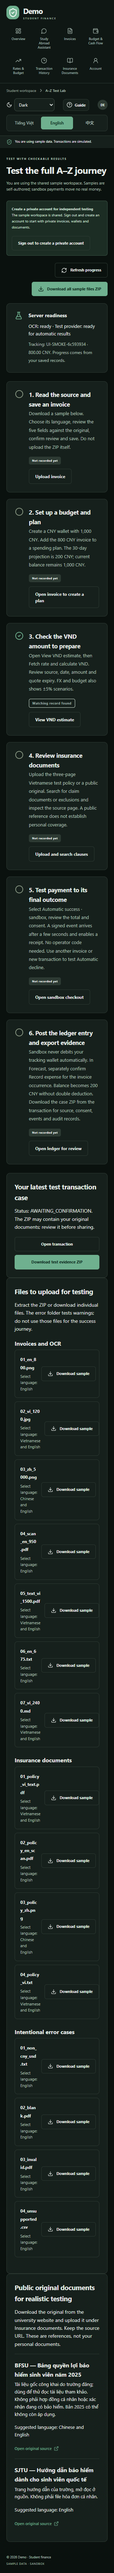
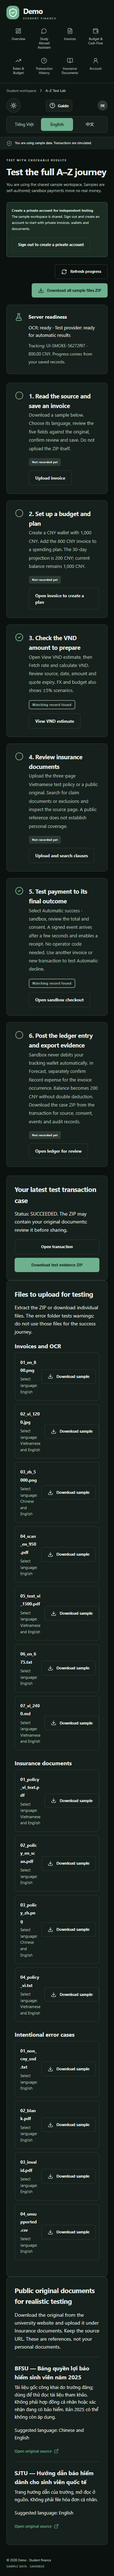
fix: switch appearance with a sun and moon button

diff --git a/frontend/tests/preferences.spec.ts b/frontend/tests/preferences.spec.ts
@@ -24,17 +24,17 @@ test("sign-in preferences preserve input, persist on reload, and synchronize tab
   await expect(page.getByRole("button", {name: "Sign in", exact: true}).first()).toBeVisible();
   await expect(page.getByLabel("Password", {exact: true})).toHaveValue("draft-password");
   await expect(page.getByLabel("Email", {exact: true})).toHaveValue("draft@example.com");
-  await page.getByLabel("Appearance", {exact: true}).selectOption("dark");
+  await page.getByRole("button", {name: "Appearance", exact: true}).click();
   await expect(page.locator("html")).toHaveClass(/dark/);
   await page.reload();
   await expect(page.getByRole("button", {name: "English", exact: true})).toHaveAttribute("aria-pressed", "true");
-  await expect(page.getByLabel("Appearance", {exact: true})).toHaveValue("dark");
+  await expect(page.getByRole("button", {name: "Appearance", exact: true})).toHaveAttribute("aria-pressed", "true");
   await expect(page.getByLabel("Password", {exact: true})).toBeVisible();
   const other = await context.newPage();
   await other.goto("/");
   await expect(other.getByRole("button", {name: "English", exact: true})).toHaveAttribute("aria-pressed", "true");
   await other.getByRole("button", {name: "中文", exact: true}).click();
-  await other.getByLabel("外观", {exact: true}).selectOption("light");
+  await other.getByRole("button", {name: "外观", exact: true}).click();
   await expect(page.locator("html")).toHaveAttribute("lang", "zh-CN");
   await expect(page.locator("html")).not.toHaveClass(/dark/);
   await expect(page.getByLabel("密码", {exact: true})).toBeVisible();
@@ -44,11 +44,11 @@ test("sign-in preferences preserve input, persist on reload, and synchronize tab
 test("system theme follows device changes, explicit selection takes priority", async ({page}) => {
   await page.emulateMedia({colorScheme: "dark"});
   await page.goto("/");
-  await expect(page.getByLabel("Giao diện", {exact: true})).toHaveValue("system");
+  await expect(page.getByRole("button", {name: "Giao diện", exact: true})).toHaveAttribute("aria-pressed", "true");
   await expect(page.locator("html")).toHaveClass(/dark/);
   await page.emulateMedia({colorScheme: "light"});
   await expect(page.locator("html")).not.toHaveClass(/dark/);
-  await page.getByLabel("Giao diện", {exact: true}).selectOption("dark");
+  await page.getByRole("button", {name: "Giao diện", exact: true}).click();
   await page.emulateMedia({colorScheme: "dark"});
   await page.emulateMedia({colorScheme: "light"});
   await expect(page.locator("html")).toHaveClass(/dark/);
@@ -57,7 +57,7 @@ test("system theme follows device changes, explicit selection takes priority", a
 test("translated screens, nested invoice form and guide retain draft data", async ({page}) => {
   await demo(page);
   await page.getByRole("button", {name: "English", exact: true}).click();
-  await page.getByLabel("Appearance", {exact: true}).selectOption("dark");
+  await page.getByRole("button", {name: "Appearance", exact: true}).click();
   const routes = [
     ["/account", "Tài khoản của bạn"], ["/assistant", "Tài liệu bảo hiểm"],
     ["/invoices", "Hóa đơn của bạn"], ["/finance", "Ngân sách du học"],
@@ -88,7 +88,7 @@ test("mobile dark mode has readable surfaces and no horizontal overflow", async 
   await page.setViewportSize({width: 320, height: 740});
   await demo(page);
   await page.getByRole("button", {name: "English", exact: true}).click();
-  await page.getByLabel("Appearance", {exact: true}).selectOption("dark");
+  await page.getByRole("button", {name: "Appearance", exact: true}).click();
   for (const route of ["/", "/finance", "/invoices/new", "/rates", "/copilot", "/test-lab"]) {
     await page.goto(route);
     await expect(page.locator("main h1")).toBeVisible();
@@ -113,7 +113,7 @@ test("preferences tolerate unavailable local storage", async ({page}) => {
   });
   await page.goto("/");
   await page.getByRole("button", {name: "English", exact: true}).click();
-  await page.getByLabel("Appearance", {exact: true}).selectOption("dark");
+  await page.getByRole("button", {name: "Appearance", exact: true}).click();
   await expect(page.getByLabel("Password", {exact: true})).toBeVisible();
   await expect(page.locator("html")).toHaveClass(/dark/);
   expect(errors).toEqual([]);
@@ -124,6 +124,6 @@ test("invalid saved preferences fall back to Vietnamese and device theme", async
   await page.emulateMedia({colorScheme: "dark"});
   await page.goto("/");
   await expect(page.getByRole("button", {name: "Tiếng Việt", exact: true})).toHaveAttribute("aria-pressed", "true");
-  await expect(page.getByLabel("Giao diện", {exact: true})).toHaveValue("system");
+  await expect(page.getByRole("button", {name: "Giao diện", exact: true})).toHaveAttribute("aria-pressed", "true");
   await expect(page.locator("html")).toHaveClass(/dark/);
 });

diff --git a/frontend/src/app/globals.css b/frontend/src/app/globals.css
@@ -104,15 +104,13 @@
 .lang-btn{flex:1;padding:6px 10px;font-size:11.5px;font-weight:600;border:0;border-radius:6px;background:transparent;color:var(--muted-text);cursor:pointer}
 .lang-btn:hover{background:var(--nav-hover);color:var(--ink)}
 .lang-btn.active{background:var(--brand);color:#fff}
-.theme-toggle{width:36px;height:36px;border-radius:50%;background:#f0f4f0;color:var(--ink);border:0;cursor:pointer;display:grid;place-items:center}
+.theme-toggle{width:40px;height:40px;border-radius:50%;background:#f0f4f0;color:var(--ink);border:1px solid var(--line);cursor:pointer;display:grid;place-items:center}
 .theme-toggle:hover{background:var(--nav-hover)}
 .dark .theme-toggle{background:#16201c;color:var(--ink)}
 .dark .theme-toggle:hover{background:#2d3a33}
 
 /* Preferences remain reachable before sign-in and at narrow viewport widths. */
 .auth-preferences{display:flex;justify-content:flex-end;align-items:center;flex-wrap:wrap;gap:12px;padding:16px 24px;background:var(--body-bg)}
-.theme-control{display:flex;align-items:center;gap:6px;color:var(--ink);min-width:0}
-.theme-control select{font:inherit;font-size:12px;color:var(--ink);background:var(--card);border:1px solid var(--line);border-radius:8px;padding:8px;max-width:160px;min-height:36px}
 .language-group{flex-shrink:0}.lang-btn{white-space:nowrap;min-height:36px}
 select:focus-visible,textarea:focus-visible{outline:3px solid var(--gold);outline-offset:3px}
 .topbar{gap:14px;flex-wrap:wrap}.topbar-right{flex-wrap:wrap}.breadcrumb{flex-wrap:wrap}
@@ -140,6 +138,6 @@ select:focus-visible,textarea:focus-visible{outline:3px solid var(--gold);outlin
 .dark .task-card p,.dark .task-card>small,.dark .task-time,.dark .task-number,.dark .getting-started p,.dark .getting-started small,.dark .continue-card p,.dark .guide-content>p,.dark .guide-choices span,.dark .guide-reopen,.dark .form-section-title p,.dark .next-action-note p,.dark .status-next,.dark .document-steps>span,.dark .scenario-grid span,.dark .import-card>p,.dark .auth-demo-note,.dark .mono,.dark .empty,.dark .empty h3,.dark .chart-axis,.dark .flow-steps li,.dark .stat-caption,.dark .invoice-amount span,.dark .finance-tabs>button{color:var(--muted)}
 .dark .positive,.dark .flow-steps li.complete,.dark .document-steps .current,.dark .finance-tabs>button.selected{color:#b9e3c8}
 .dark .negative{color:#ffbba5!important}.dark .citation-card blockquote{color:#cee1d2}
-@media(max-width:600px){.auth-preferences{padding:12px;gap:8px}.auth-preferences .language-group{margin-left:auto}.topbar{align-items:flex-start}.topbar-right{width:100%;gap:10px;justify-content:space-between}.language-group{gap:2px}.lang-btn{padding:5px 7px}.theme-control select{max-width:126px}.topbar .avatar{margin-left:0}.breadcrumb{overflow-wrap:anywhere}.sidebar nav{flex-wrap:wrap}.auth-page{padding-top:18px}}
+@media(max-width:600px){.auth-preferences{padding:12px;gap:8px}.auth-preferences .language-group{margin-left:auto}.topbar{align-items:flex-start}.topbar-right{width:100%;gap:10px;justify-content:space-between}.language-group{gap:2px}.lang-btn{padding:5px 7px}.topbar .avatar{margin-left:0}.breadcrumb{overflow-wrap:anywhere}.sidebar nav{flex-wrap:wrap}.auth-page{padding-top:18px}}
 @media(max-width:360px){.auth-preferences{justify-content:center}.auth-preferences .language-group{margin:0}.topbar-right .language-group{order:3;width:100%}.topbar-right .lang-btn{flex:1}}
 @media print{html.dark,html.dark body,html.dark .app-shell,html.dark .main-shell,html.dark main,html.dark .receipt{background:#fff!important;color:#17332e!important;color-scheme:light}html.dark .receipt h2,html.dark .receipt dd,html.dark .receipt dt,html.dark .receipt p,html.dark .receipt .mono{color:#17332e!important}html.dark .receipt-warning{background:#fbf4df!important;color:#6b4714!important;border-color:#946623!important}html.dark .receipt-watermark{color:#ddd!important}.auth-preferences{display:none!important}}

diff --git a/frontend/src/components/locale-theme-toggle.tsx b/frontend/src/components/locale-theme-toggle.tsx
@@ -30,16 +30,18 @@ export function LanguageSelector() {
 
 export function ThemeToggle() {
   useI18n();
-  const {theme, setTheme} = useTheme();
+  const {resolved, setTheme} = useTheme();
+  const isDark = resolved === "dark";
   return (
-    <label className="theme-control">
-      {theme === "dark" ? <Moon size={16} aria-hidden="true"/> : <Sun size={16} aria-hidden="true"/>}
-      <span className="sr-only">{tr("Giao diện")}</span>
-      <select aria-label={tr("Giao diện")} value={theme} onChange={event => setTheme(event.target.value as "light" | "dark" | "system")}>
-        <option value="system">{tr("Theo thiết bị")}</option>
-        <option value="light">{tr("Sáng")}</option>
-        <option value="dark">{tr("Tối")}</option>
-      </select>
-    </label>
+    <button
+      type="button"
+      className="icon-button theme-toggle"
+      aria-label={tr("Giao diện")}
+      aria-pressed={isDark}
+      title={tr(isDark ? "Chuyển sang chế độ sáng" : "Chuyển sang chế độ tối")}
+      onClick={() => setTheme(isDark ? "light" : "dark")}
+    >
+      {isDark ? <Sun size={18} aria-hidden="true"/> : <Moon size={18} aria-hidden="true"/>}
+    </button>
   );
 }

diff --git a/frontend/src/lib/translations.ts b/frontend/src/lib/translations.ts
@@ -2731,5 +2731,13 @@ export const phrases: Record<string, {en: string; zh: string}> = {
   "Bạn đã thu khoản này ngoài thực tế?": {
     "en": "Have you actually received this amount?",
     "zh": "您是否已实际收到这笔款项？"
+  },
+  "Chuyển sang chế độ sáng": {
+    "en": "Switch to light mode",
+    "zh": "切换到浅色模式"
+  },
+  "Chuyển sang chế độ tối": {
+    "en": "Switch to dark mode",
+    "zh": "切换到深色模式"
   }
 };

diff --git a/LANGUAGE_AND_APPEARANCE.md b/LANGUAGE_AND_APPEARANCE.md
@@ -2,11 +2,7 @@
 
 Ở đầu trang, chọn **Tiếng Việt**, **English** hoặc **中文**. Nút này dùng được cả trước và sau khi đăng nhập.
 
-Ô **Giao diện** có ba lựa chọn:
-
-- **Sáng**: luôn dùng nền sáng.
-- **Tối**: luôn dùng nền tối.
-- **Theo thiết bị**: tự theo cài đặt sáng/tối của máy, kể cả khi máy đổi chế độ trong lúc đang mở web.
+Nút biểu tượng **mặt trăng / mặt trời** chuyển trực tiếp giữa sáng và tối bằng một lần bấm. Khi chưa chọn, giao diện tự theo thiết bị; sau khi bấm, web ưu tiên lựa chọn của bạn.
 
 Web nhớ lựa chọn trên trình duyệt hiện tại, giữ lại khi tải lại trang và đồng bộ giữa các tab cùng địa chỉ. Máy hoặc trình duyệt khác chọn riêng. Khi trình duyệt chặn lưu trữ, lựa chọn vẫn dùng trong tab hiện tại nhưng không bảo đảm được lưu sau khi đóng/tải lại.
 
@@ -16,7 +12,7 @@ Tên, nội dung người dùng nhập, chứng từ, đoạn trích, câu trả
 
 Biên nhận luôn giữ cảnh báo `SIMULATED TRANSACTION — NO REAL FUNDS MOVED`. Khi in từ chế độ tối, biên nhận chuyển sang nền trắng để đọc rõ.
 
-Để thử: nhập dở một hóa đơn, chuyển English rồi 中文, kiểm tra dữ liệu còn nguyên; chọn Tối, tải lại; mở tab khác và đổi về Sáng. Để kiểm tra tự động:
+Để thử: nhập dở một hóa đơn, chuyển English rồi 中文, kiểm tra dữ liệu còn nguyên; bấm nút mặt trăng để bật tối, tải lại; mở tab khác và bấm nút mặt trời để về sáng. Để kiểm tra tự động:
 
 ```powershell
 cd frontend

diff --git a/IMPLEMENTATION_REPORT.md b/IMPLEMENTATION_REPORT.md
@@ -1,3 +1,11 @@
+# Theme button correction — 2026-10-19
+
+Replaced the theme dropdown with one sun/moon icon button, before and after sign-in. Clicking switches directly between light and dark based on the resolved current appearance. The button exposes its dark-mode state to assistive technology and has a localized action tooltip. Saved choices, cross-tab synchronization and default device following remain supported. Updated the usage docs and existing preferences tests for the button.
+
+Validation: **6 focused browser tests passed**, zero unexpected/skipped/flaky, **18999.467 ms** (theme-button-browser.json); lint and TypeScript exit 0. No production rebuild/deployment or full payment regression rerun was needed for this UI-only correction; the production evidence below describes the preceding version.
+
+---
+
 # Interface languages and appearance — 2026-10-19
 
 Completed Vietnamese, English and Simplified Chinese interface controls before and after sign-in. Local dictionaries cover navigation, forms, guided tasks, invoice/checkout/status/receipt labels, budgeting, document search, test lab and operator screens. Number/date presentation follows the selected locale; monetary values remain exact server Decimal strings, with BigInt used for grouped integer display. Vietnam remains the display time zone.

diff --git a/TEAM_HANDOFF.md b/TEAM_HANDOFF.md
@@ -1,6 +1,6 @@
 # Bàn giao sản phẩm Demo
 
-Đổi **Tiếng Việt / English / 中文** và **Sáng / Tối / Theo thiết bị** ngay đầu trang, kể cả trước đăng nhập. Lựa chọn lưu theo trình duyệt. Xem [LANGUAGE_AND_APPEARANCE.md](LANGUAGE_AND_APPEARANCE.md) để thử và biết phần nội dung giữ ngôn ngữ gốc.
+Chọn **Tiếng Việt / English / 中文** hoặc bấm nút **mặt trăng / mặt trời** để đổi sáng/tối ngay đầu trang, kể cả trước đăng nhập. Lựa chọn lưu theo trình duyệt. Xem [LANGUAGE_AND_APPEARANCE.md](LANGUAGE_AND_APPEARANCE.md) để thử và biết phần nội dung giữ ngôn ngữ gốc.
 
 Muốn dùng online khi tắt máy cá nhân: xem [DEPLOY_RENDER.md](DEPLOY_RENDER.md) và nút deploy từ GitHub. Bản Free dành cho demo có giới hạn ngủ/quota và database hết hạn sau 30 ngày; URL cloud hiện tại: https://ai4s-demo.onrender.com/test-lab. 10 kiểm tra HTTPS luồng chính đã qua; PDF scan công khai dạng bảng dày gặp OCR_TIMEOUT trên Free.
 
